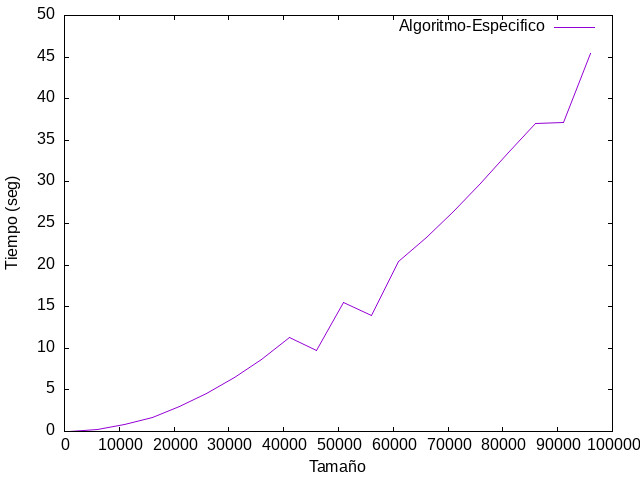
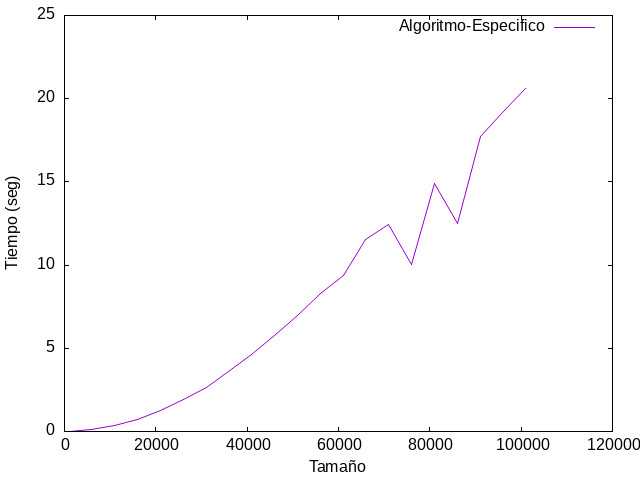
Añado modificación con ordenación by Clara

diff --git a/P2/Especifico/src/especifico.cpp b/P2/Especifico/src/especifico.cpp
@@ -5,20 +5,32 @@
 #include <sstream>
 #include <utility> //pair
 #include <chrono>
+#include <algorithm>
 
 using namespace std;
 
+struct punto
+{
+	int x;
+	int y;
+};
+
+bool comp(punto a, punto b)
+{
+	return a.x<b.x || (a.x==b.x && a.y < b.y);
+}
+
 // Función para extraer todas las posiciones de los datos generados, además comprueba 
 // que existan suficientes posiciones generadas.
-vector<pair<int, int>> obtenerPosiciones(int pos)
+vector<punto> obtenerPosiciones(int pos)
 {
 	ifstream posicionesGeneradas("./Generador/data/posiciones.dat");
 
 	string linea, palabra;
 	stringstream ss;
 	int numero;
-	vector<pair<int, int>> posiciones;
-	pair<int, int> posicion;
+	vector<punto> posiciones;
+	punto posicion;
 
 	while(getline(posicionesGeneradas, linea))
 	{
@@ -26,14 +38,14 @@ vector<pair<int, int>> obtenerPosiciones(int pos)
 
 		// x
 		ss >> palabra;	
-		stringstream(palabra) >> posicion.first;
+		stringstream(palabra) >> posicion.x;
 
 		// " "
 		ss >> palabra;	
 
 		// y
 		ss >> palabra;	
-		stringstream(palabra) >> posicion.second;
+		stringstream(palabra) >> posicion.y;
 
 		posiciones.push_back(posicion);
 		ss.clear();
@@ -46,18 +58,20 @@ vector<pair<int, int>> obtenerPosiciones(int pos)
 }
 
 // Resolución del problema de posiciones alcanzables de manera específica.
-vector<vector<int>> solucionEspecifica(vector<pair<int,int>> posiciones)
+vector<vector<int>> solucionEspecifica(vector<punto> posiciones)
 {
 	vector<vector<int>> solucion;
 	vector<int> posicionesi;
+	
+	sort(posiciones.begin(), posiciones.end(), comp);
 
 	for(int i=0; i<posiciones.size(); i++)
 	{
 		posicionesi.push_back(i);
 
-		for(int j=0; j<posiciones.size(); j++)
+		for(int j=i-1; j>=0; j--)
 		{
-			if(posiciones[i].first > posiciones[j].first && posiciones[i].second > posiciones[j].second)
+			if(posiciones[i].y >= posiciones[j].y)
 				posicionesi.push_back(j);
 				
 		}
@@ -77,7 +91,7 @@ int main(int argc, char *argv[])
 		return -1;
 	}
 
-	vector<pair<int,int>> posiciones;
+	vector<punto> posiciones;
 	try
 	{
 		posiciones = obtenerPosiciones(atoi(argv[1]));
@@ -104,6 +118,7 @@ int main(int argc, char *argv[])
 	// Imprimimos el tiempo de ejecución del algoritmo a través de la terminal
 	cout << argv[1] << " " << transcurrido.count() << endl;
 
+	sort(posiciones.begin(), posiciones.end(), comp);
 
 	// Imprimimos la solución en el archivo solucion.dat si la salida es archivo
 	if(atoi(argv[2]) == 1)
@@ -111,13 +126,13 @@ int main(int argc, char *argv[])
 		ofstream salida("./Especifico/data/solucion.dat", ofstream::out | ofstream::trunc);
 		for(int i=0; i<alcanzables.size(); i++)
 		{
-			salida << "Las posiciones alcanzables desde la posición " << i << " (" << posiciones[i].first << "," << posiciones[i].second << ") son:" << endl; 	
+			salida << "Las posiciones alcanzables desde la posición " << i << " (" << posiciones[i].x << "," << posiciones[i].y << ") son:" << endl; 	
 
 			if(alcanzables[i].size()>1)
 			{
 				for(int j=1; j<alcanzables[i].size(); j++)
 				{
-					salida << "  - Posición: " << alcanzables[i][j] <<  " (" << posiciones[alcanzables[i][j]].first << "," << posiciones[alcanzables[i][j]].second << ")" << endl;
+					salida << "  - Posición: " << alcanzables[i][j] <<  " (" << posiciones[alcanzables[i][j]].x << "," << posiciones[alcanzables[i][j]].y << ")" << endl;
 				}
 			}
 			else
